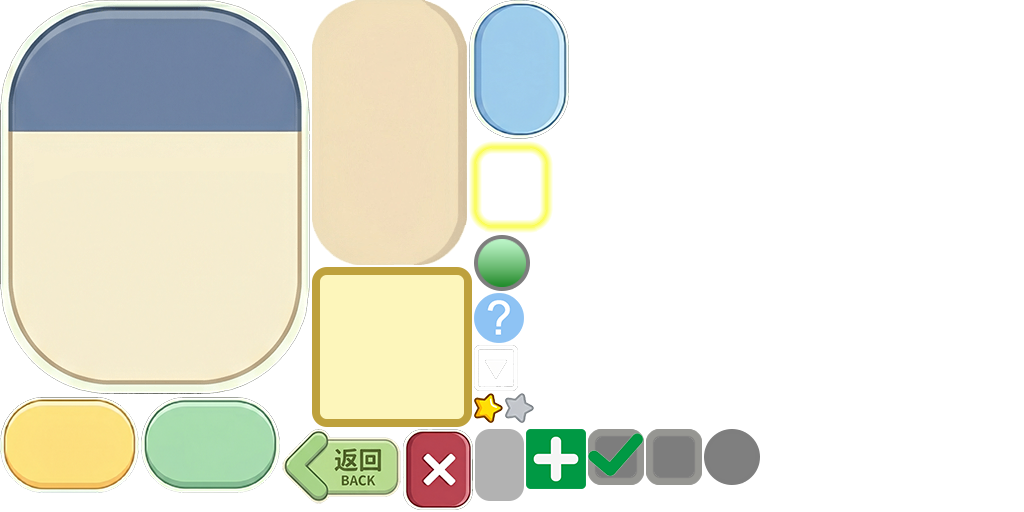
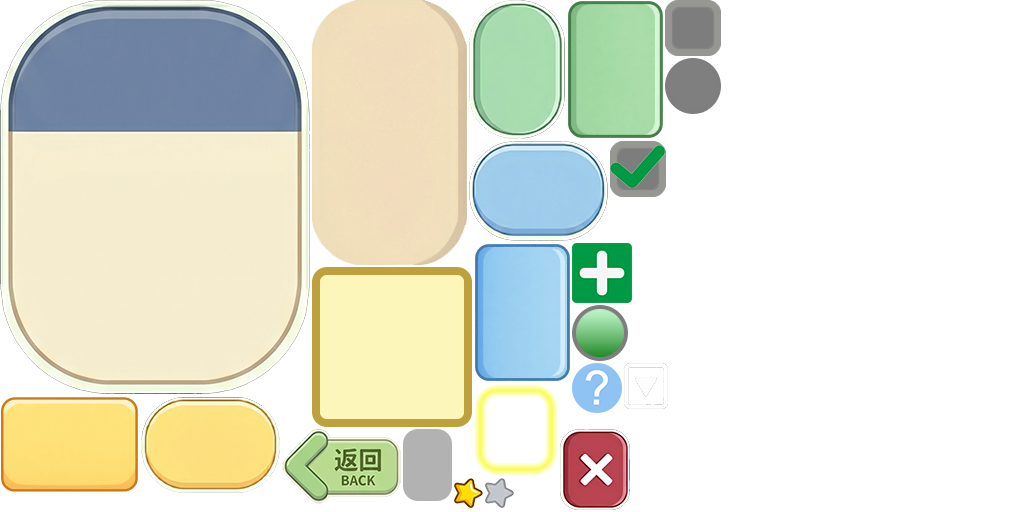
feat: 更新排行榜文本，调整组件位置，新增按钮功能及相关文件

Changed region(s): [[0.375, 0.0, 0.75, 1.0], [0.0, 0.75, 0.2812, 0.9688]]

diff --git a/assets/scripts/fgui/common/FGUICompBtnSingleCheck.ts b/assets/scripts/fgui/common/FGUICompBtnSingleCheck.ts
@@ -1,0 +1,97 @@
+/** This is an automatically generated class by FairyGUI. Please do not modify it. **/
+
+import { assetManager, AssetManager } from "cc";
+import * as fgui from "fairygui-cc";
+
+import { PackageManager } from "@frameworks/PackageManager";
+import { Logger } from "@frameworks/utils/Utils";
+
+export default class FGUICompBtnSingleCheck extends fgui.GButton {
+
+	public ctrl_color:fgui.Controller;
+	public static URL:string = "ui://gj0r6g5inomuz";
+
+	public static packageName:string = "common";
+
+	public static instance:any | null = null;
+
+	public enableAnimation: boolean = false;
+
+	public static showView(params?: any, callBack?: (b: boolean) => void): void {
+		if (FGUICompBtnSingleCheck.instance) {
+			console.log("allready show");
+			callBack && callBack(false);
+			return;
+		}
+		const createView = () => {
+			const view = fgui.UIPackage.createObject("common", "CompBtnSingleCheck") as FGUICompBtnSingleCheck;
+
+			view.makeFullScreen();
+			FGUICompBtnSingleCheck.instance = view;
+			fgui.GRoot.inst.addChild(view);
+			view.show && view.show(params);
+			callBack && callBack(true);
+		};
+
+		if (PackageManager.instance.hasPackage("fgui", this.packageName)) {
+			createView();
+			return;
+		}
+
+		PackageManager.instance
+			.loadPackage("fgui", this.packageName)
+			.then(() => {
+				createView();
+			})
+			.catch((error) => {
+				Logger.error("showView error", error);
+				callBack && callBack(false);
+				return;
+			});
+	}
+
+	protected onDestroy():void {
+		super.onDestroy();
+		FGUICompBtnSingleCheck.instance = null;
+	}
+	public static hideView():void {
+		FGUICompBtnSingleCheck.instance && FGUICompBtnSingleCheck.instance.dispose();
+	}
+
+	show(data?:any):void{};
+
+	enterAnimation(): void {
+		fgui.GTween.to2(0, 0, 1, 1, 0.3)
+		    .setTarget(this)
+		    .setEase(fgui.EaseType.BackOut)
+		    .onUpdate((tween) => {
+		        this.setScale(tween.value.x, tween.value.y);
+		    });
+	}
+
+	hideAnimation(onComplete?: () => void): void {
+		fgui.GTween.to2(1, 1, 0, 0, 0.3)
+		    .setTarget(this)
+		    .setEase(fgui.EaseType.BackIn)
+		    .onUpdate((tween) => {
+		        this.setScale(tween.value.x, tween.value.y);
+		    })
+		    .onComplete(() => {
+		        onComplete && onComplete();
+		    });
+	}
+
+	public static createInstance():FGUICompBtnSingleCheck {
+		return <FGUICompBtnSingleCheck>(fgui.UIPackage.createObject("common", "CompBtnSingleCheck"));
+	}
+
+	protected onConstruct():void {
+		this.ctrl_color = this.getControllerAt(1);
+		if (this.enableAnimation) this.enterAnimation();
+	}
+	scheduleOnce(callback: () => void, delay: number):void{};
+	unscheduleAllCallbacks():void{};
+	unschedule(callback: () => void):void{};
+	schedule(callback: () => void, interval: number):void{};
+}
+fgui.UIObjectFactory.setExtension(FGUICompBtnSingleCheck.URL, FGUICompBtnSingleCheck);
